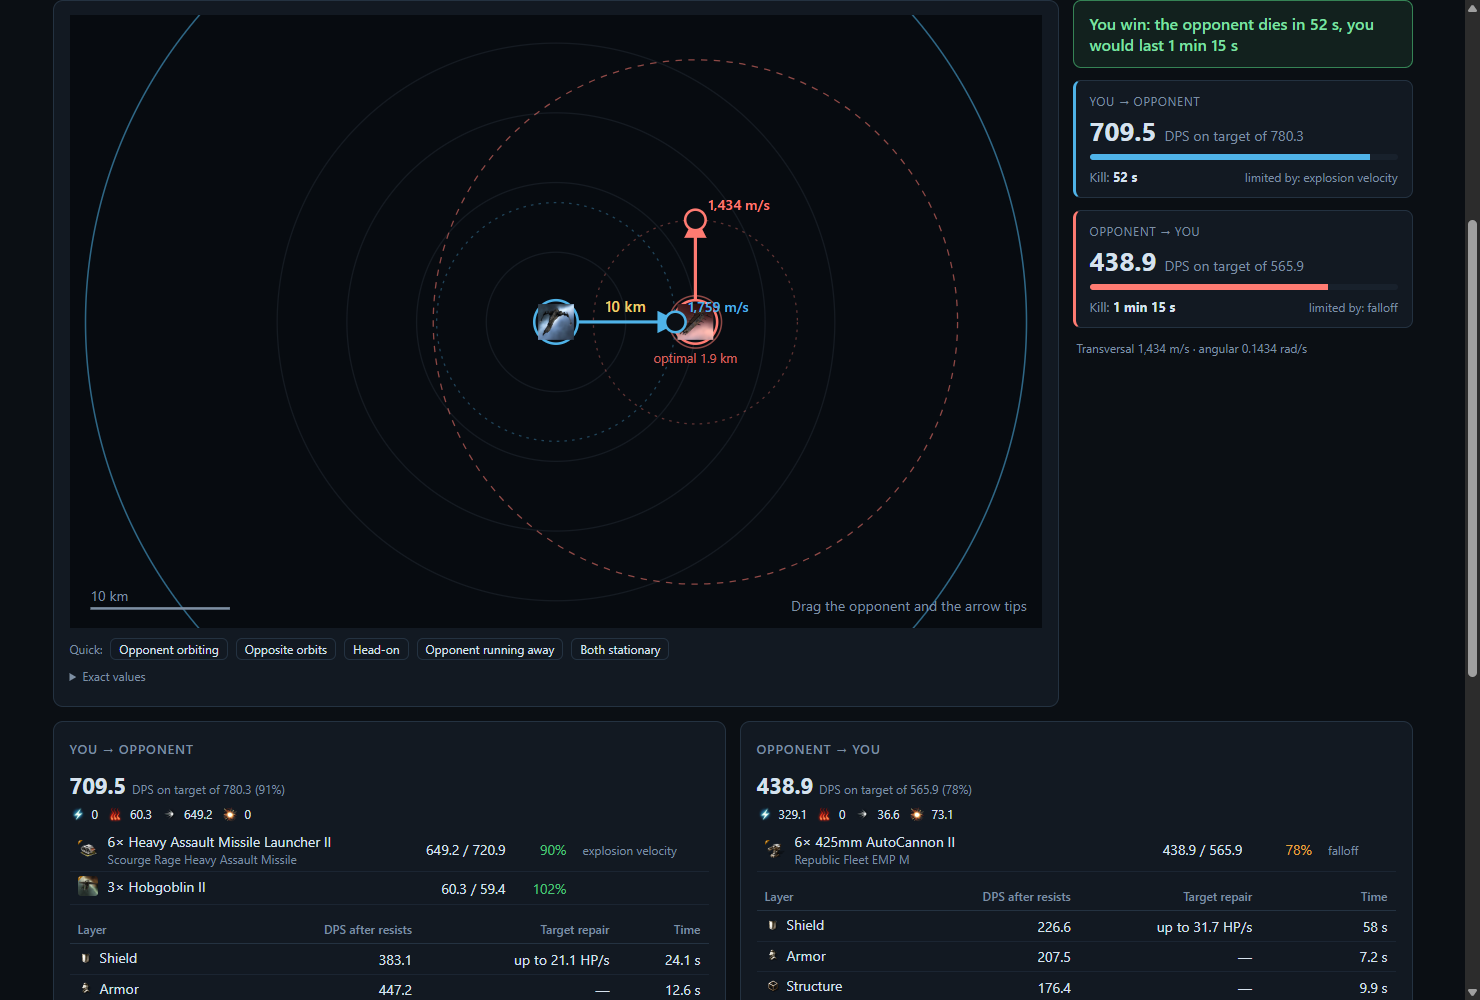
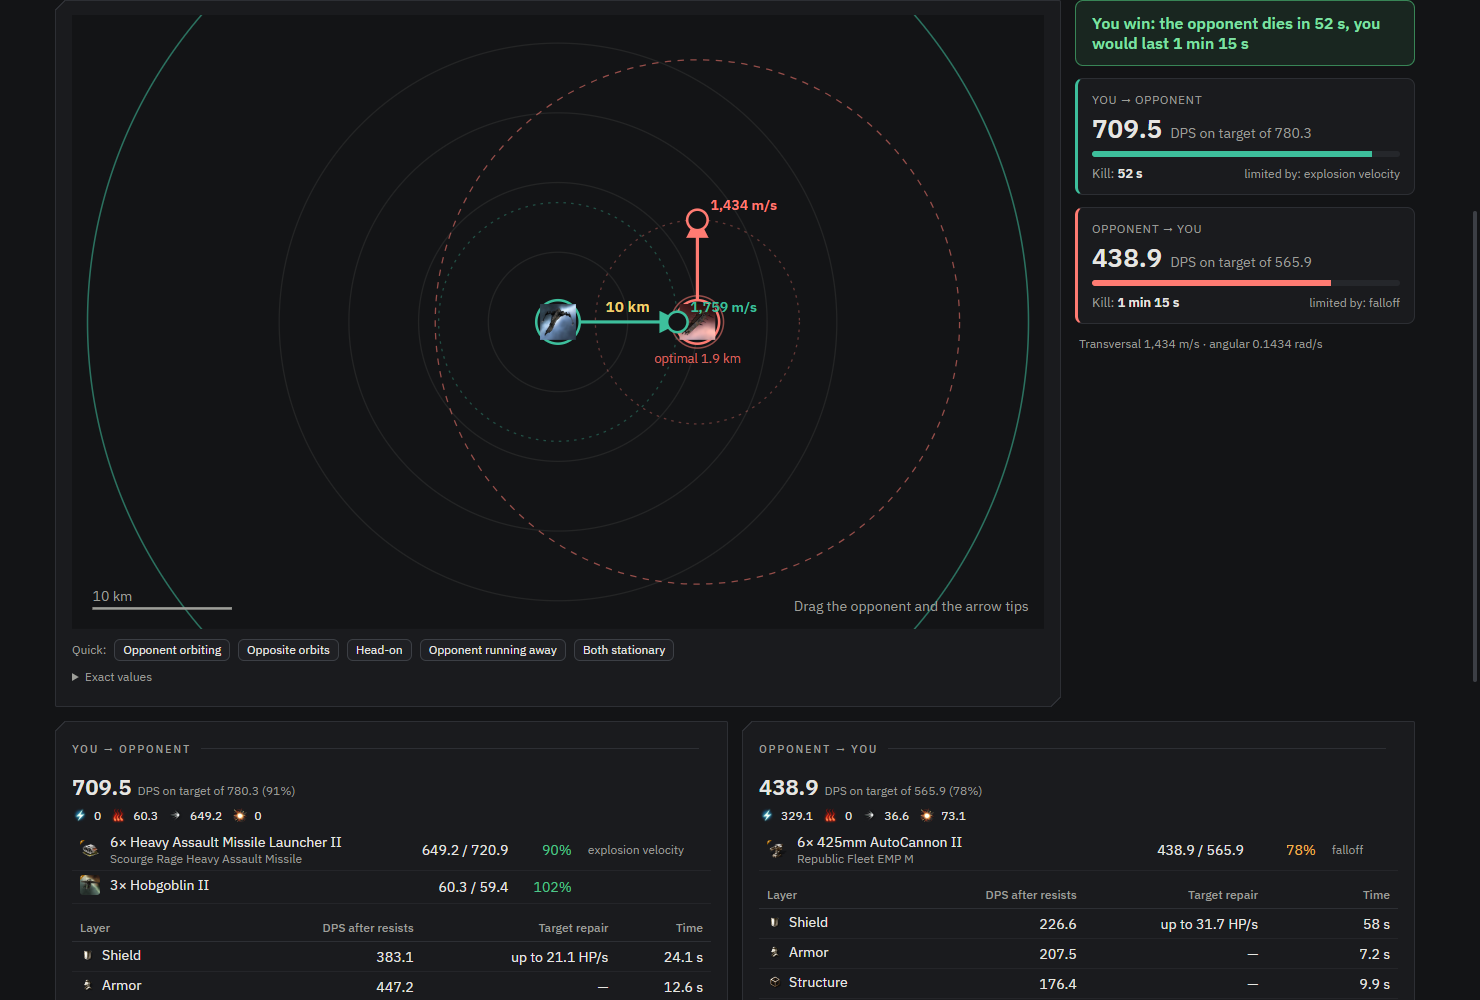
0.8.0: README and screenshots for the redesign

diff --git a/README.md b/README.md
@@ -19,10 +19,17 @@
 
 ## Features
 
+### A calm, fast interface
+- A neutral graphite theme that is easy on the eyes during long sessions; one accent colour marks everything you can click. Pick the accent — Canopus, Photon, Amarr, Caldari, Gallente or Minmatar — and a comfortable or compact density.
+- **Ctrl+K** from anywhere: jump to a section, open Show Info for any item, switch the overlay, language or theme.
+- Live Tranquility player count and EVE time in the top bar.
+
 ### Fitting tool
 - Dogma engine driven by CCP's Static Data Export: skills, hull and role bonuses, subsystems, modules (offline / online / active / overheated), charges, drones, implants and stacking penalties.
 - Ship browser grouped by class and race, and a module browser grouped like the in-game market (shield, armor, propulsion, turrets by type…) with T1 / T2 / faction / deadspace / officer badges. Only modules that actually fit the ship are offered; turret and launcher hardpoints are enforced.
+- The numbers you check first — DPS, volley, EHP, CPU and powergrid — are always on top; a nearly full powergrid turns amber.
 - **Live preview**: hover a module in the list and every stat updates in place with the difference highlighted — compare without fitting.
+- Identical modules collapse into one row ("6× Heavy Assault Missile Launcher II"): change state or ammo for all at once.
 - Ammo picker grouped by tech level with damage-type icons.
 - Firepower with damage profile; hover the DPS to see DPS with reload and the split between weapons and drones. EHP and resistances per layer, active tank, capacitor stability, navigation and targeting.
 - Calculate with **all skills V** or with **your character's skills**: what to train and how long it takes.
@@ -42,14 +49,14 @@ damage per tank layer against local repairs, and who dies first.
 ![Combat simulator](docs/screenshots/combat.png)
 
 ### Intel
-- **Local scan** — press **Ctrl+A, Ctrl+C** in the Local window: every pilot is checked for corporation, alliance, age, kills and losses, danger ratio and favourite ships. New arrivals are highlighted and a Windows notification fires when a dangerous pilot enters.
+- **Local scan** — press **Ctrl+A, Ctrl+C** in the Local window: every pilot is checked for corporation, alliance, age, kills and losses, danger ratio and favourite ships. Threat is shown as a meter with a word, not colour alone. New arrivals are highlighted, and when a dangerous pilot enters you get an alert in the app and a Windows notification.
 - **Intel channels** — Canopus follows your alliance's intel chat logs, recognises systems (including shorthand like "1DQ") and ships in every report and shows how many jumps away they are; reports within your range raise an alert, "clr" / "nv" mean all clear.
 - **D-scan and fleet window** analysis with warnings for interdictors, bombers, recons, logistics and capitals.
 - An always-on-top **overlay** for windowed / borderless mode (**Ctrl+Shift+L** show / hide, **Ctrl+Shift+K** click-through).
 
-| Intel channels | Local scan | Overlay |
+| Local scan | Intel channels | Overlay |
 |---|---|---|
-| ![Intel channels](docs/screenshots/intel-channels.png) | ![Local](docs/screenshots/intel-local.png) | ![Overlay](docs/screenshots/overlay.png) |
+| ![Local](docs/screenshots/intel-local.png) | ![Intel channels](docs/screenshots/intel-channels.png) | ![Overlay](docs/screenshots/overlay.png) |
 
 ### Map and travel
 - **Route safety** — every system on the route with security, ship / pod kills in the last hour and gate camps from zKillboard; set the destination in the game with one click.
